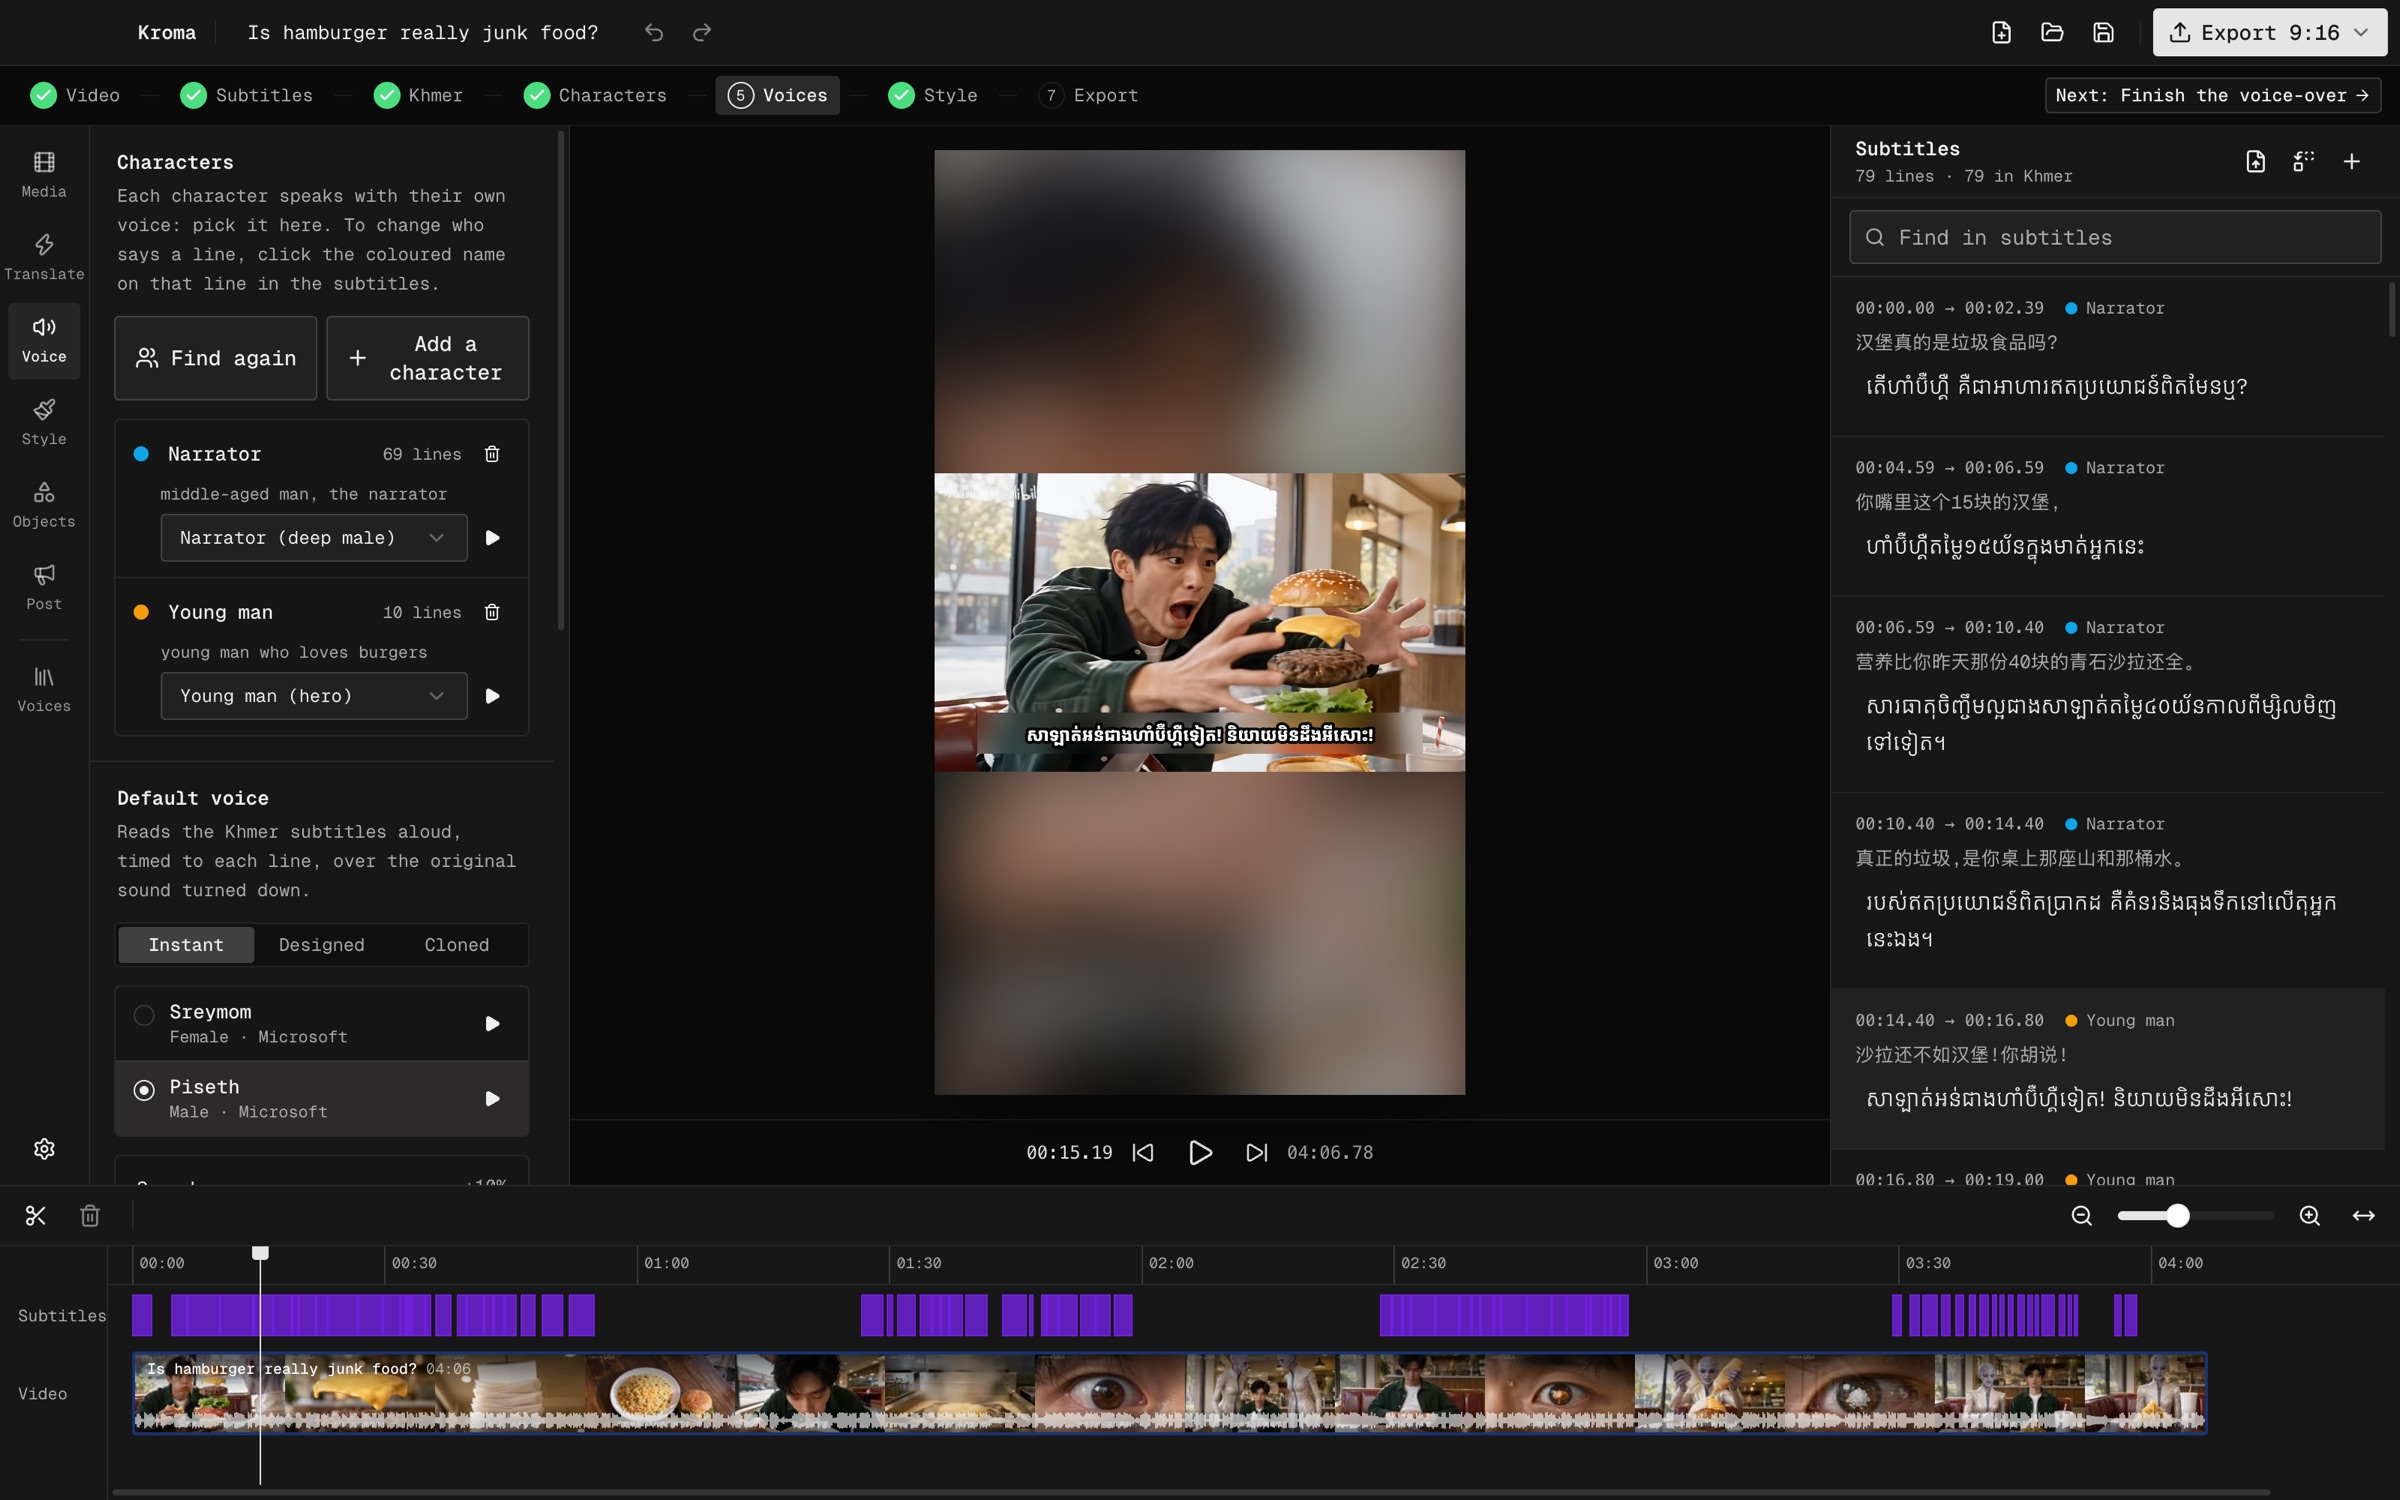
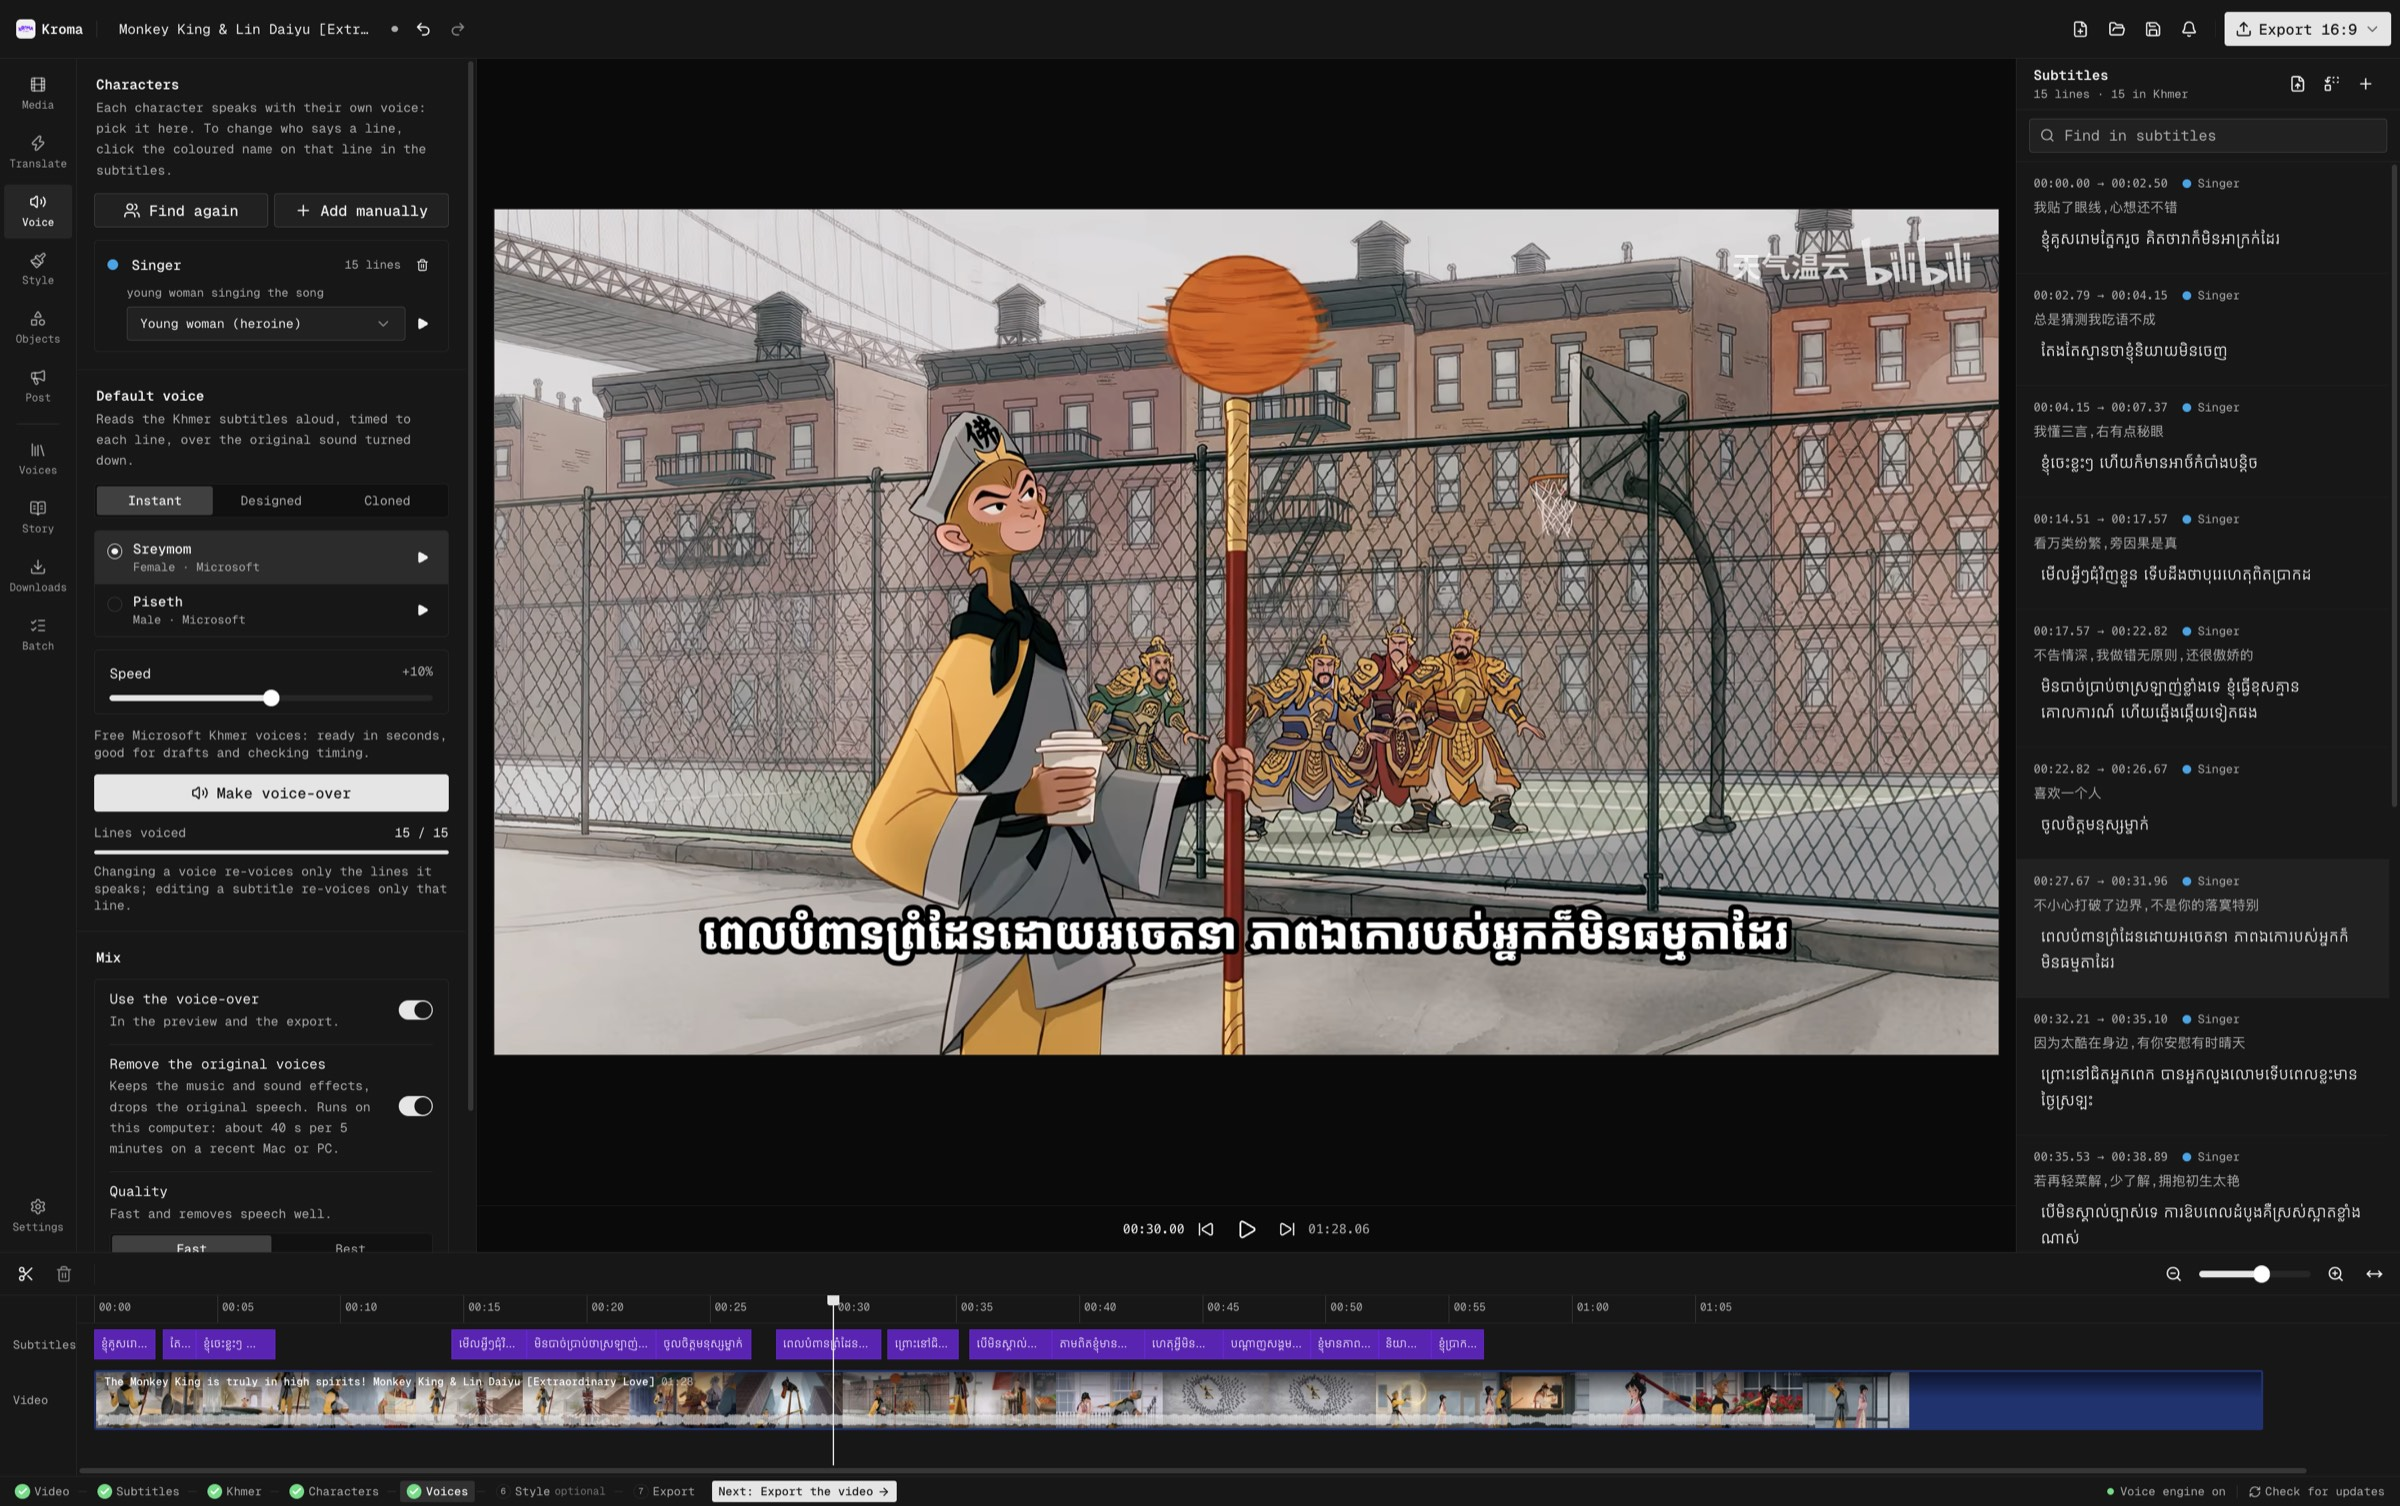
docs: app screenshots from 0.2.0; Download Center and Batch in the showcase
New screenshots of Kroma 0.2.0 (fullscreen, 80% zoom), made by running
the whole flow on a real video: download from a Bilibili share message,
speech to text, Khmer, characters, voice-over, posts. The Download tab
now shows the Download Center with a series downloading, and a new
Batch tab shows five videos going through the steps.

diff --git a/website/components/site/showcase.tsx b/website/components/site/showcase.tsx
@@ -11,9 +11,10 @@ import { cn } from "@/lib/utils";
 // crossfade, so the page never jumps.
 
 const TABS = [
-	{ id: "characters", label: "Characters", src: "/assets/editor-dark.jpg", light: "/assets/editor-light.jpg", alt: "The editor with Khmer subtitles and the Characters panel: the Narrator and the Young man each with their own voice." },
-	{ id: "download", label: "Download", src: "/assets/media-dark.jpg", alt: "The Media panel: paste a link from YouTube, Bilibili, Douyin and 1,000+ sites." },
+	{ id: "characters", label: "Characters", src: "/assets/editor-dark.jpg", light: "/assets/editor-light.jpg", alt: "The editor with Khmer subtitles on a Monkey King video, the Characters panel with the Singer's voice, and every line voiced." },
+	{ id: "download", label: "Download", src: "/assets/downloads-dark.jpg", alt: "The Download Center downloading a whole series, Journey to the West: two done, two downloading, two waiting, each its own project." },
 	{ id: "translate", label: "Translate", src: "/assets/translate-dark.jpg", alt: "The Translate panel turning the Chinese lines into Khmer." },
+	{ id: "batch", label: "Batch", src: "/assets/batch-dark.jpg", alt: "Batch: five videos going through subtitles, translation, characters and post text, one after another." },
 	{ id: "voices", label: "Voices", src: "/assets/voices-dark.jpg", alt: "The Voices library: King, Emperor, Queen, Prince, Princess and more, each with a player." },
 	{ id: "style", label: "Style", src: "/assets/style-dark.jpg", alt: "The Style panel for the Khmer subtitles." },
 	{ id: "post", label: "Post", src: "/assets/post-dark.jpg", alt: "The Post panel with titles, text and hashtags for YouTube, Facebook and TikTok." },

diff --git a/website/lib/i18n/km.ts b/website/lib/i18n/km.ts
@@ -25,7 +25,7 @@ export const km: Messages = {
 		forAll: "សម្រាប់ macOS, Windows និង Linux",
 		trust: "គ្មានការបង់ប្រចាំខែ។ ប្រើ key AI ផ្ទាល់ខ្លួន ដែលភាគច្រើនឥតគិតថ្លៃ។ ដំណើរការលើកុំព្យូទ័ររបស់អ្នក ហើយការងារ AI ធ្ងន់ៗធ្វើនៅលើ cloud។",
 	},
-	showcase: { label: "អ្វីដែល Kroma ធ្វើបាន", tabs: { characters: "តួអង្គ", download: "ទាញយក", translate: "បកប្រែ", voices: "សំឡេង", style: "រចនាប័ទ្ម", post: "បង្ហោះ" } },
+	showcase: { label: "អ្វីដែល Kroma ធ្វើបាន", tabs: { characters: "តួអង្គ", download: "ទាញយក", translate: "បកប្រែ", batch: "Batch", voices: "សំឡេង", style: "រចនាប័ទ្ម", post: "បង្ហោះ" } },
 	workflow: {
 		kicker: "របៀបប្រើ",
 		title: "ពីតំណភ្ជាប់ ដល់ការបង្ហោះ មួយជំហានម្តងៗ។",

diff --git a/website/lib/i18n/en.ts b/website/lib/i18n/en.ts
@@ -23,7 +23,7 @@ export const en = {
 		forAll: "For macOS, Windows and Linux",
 		trust: "No subscription. Your own AI keys, many free. Runs on your computer; the heavy AI work happens in the cloud.",
 	},
-	showcase: { label: "What Kroma does", tabs: { characters: "Characters", download: "Download", translate: "Translate", voices: "Voices", style: "Style", post: "Post" } },
+	showcase: { label: "What Kroma does", tabs: { characters: "Characters", download: "Download", translate: "Translate", batch: "Batch", voices: "Voices", style: "Style", post: "Post" } },
 	workflow: {
 		kicker: "How it works",
 		title: "From a link to a finished post, step by step.",

diff --git a/README.md b/README.md
@@ -100,7 +100,7 @@ Kings, queens, heroes, monks, villains and kids, each a saved voice that sounds 
 
 </td>
 <td width="50%">
-  <img src="docs/assets/readme-style-dark.jpg" alt="The Style panel with subtitle settings and a blur box over the original subtitles" width="100%" />
+  <img src="docs/assets/readme-style-dark.jpg" alt="The Style panel with subtitle style presets" width="100%" />
 </td>
 </tr>
 <tr>
